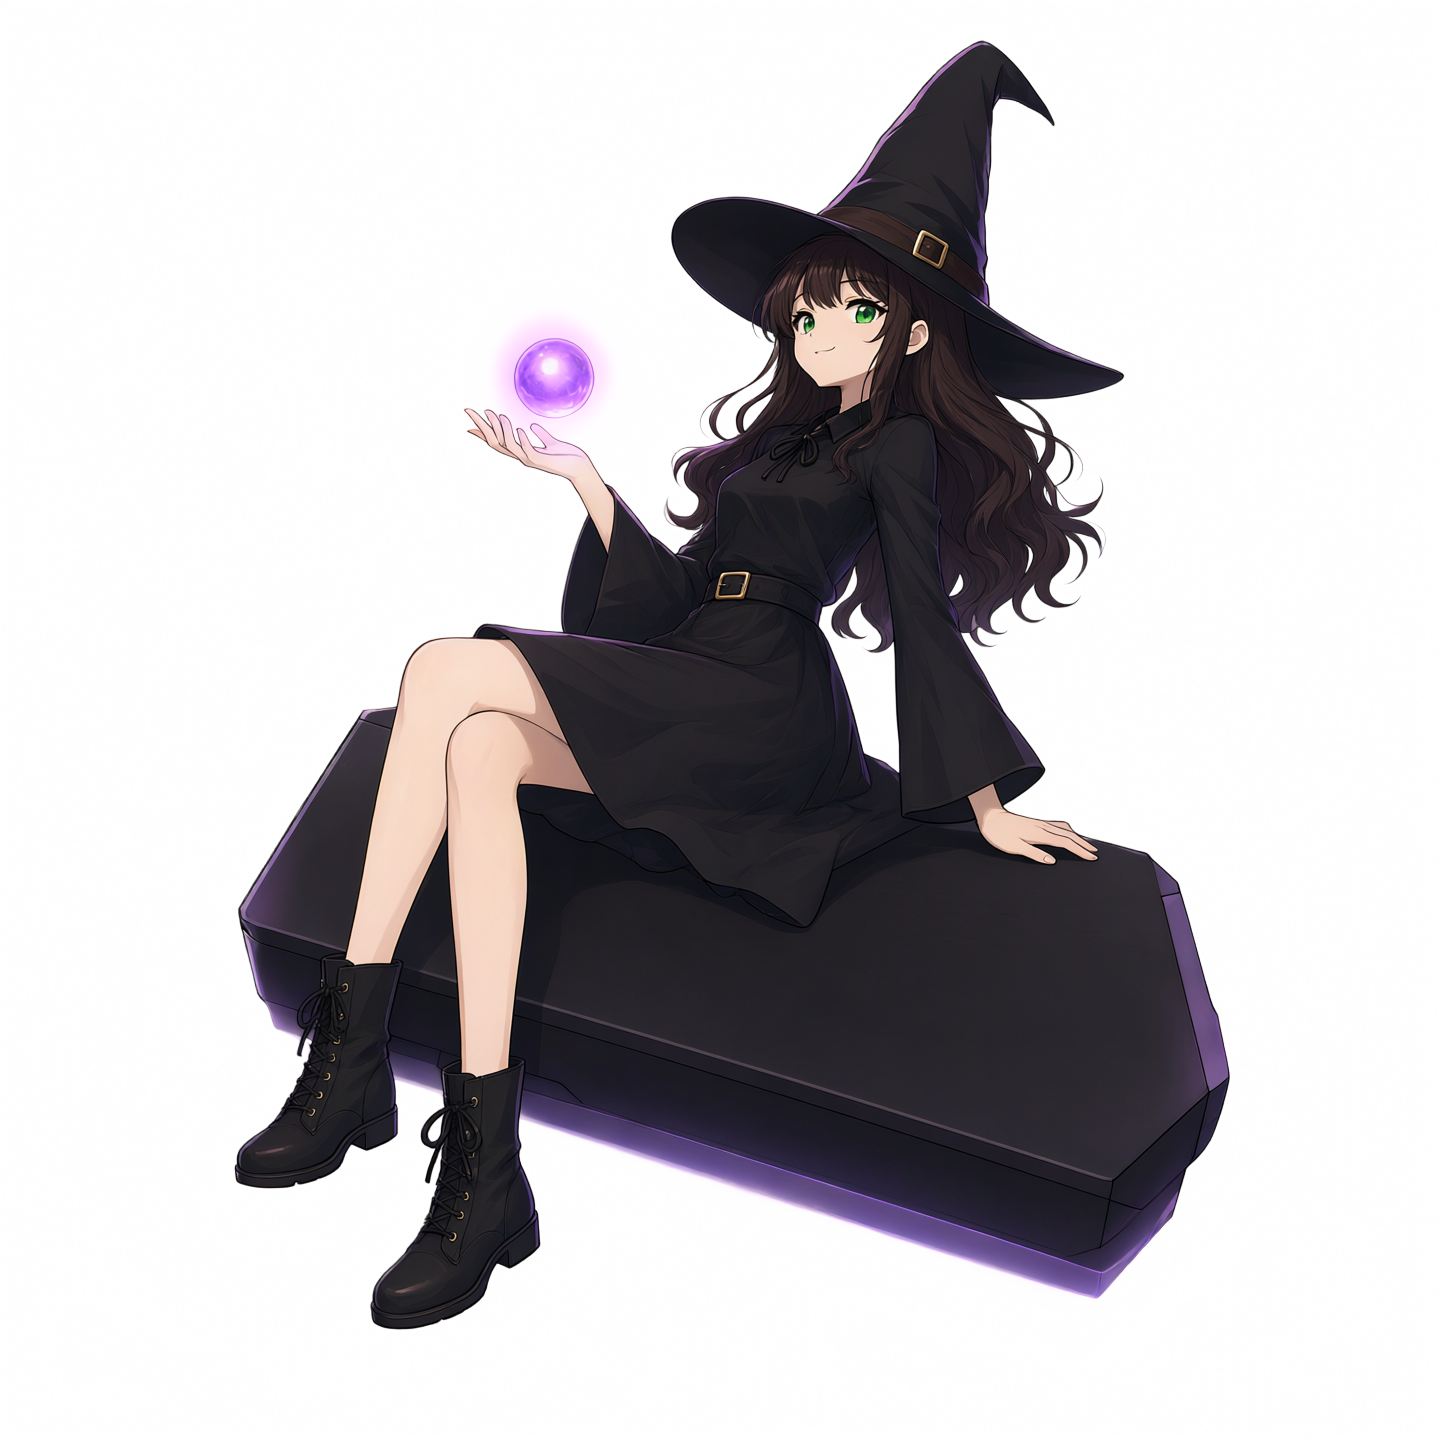
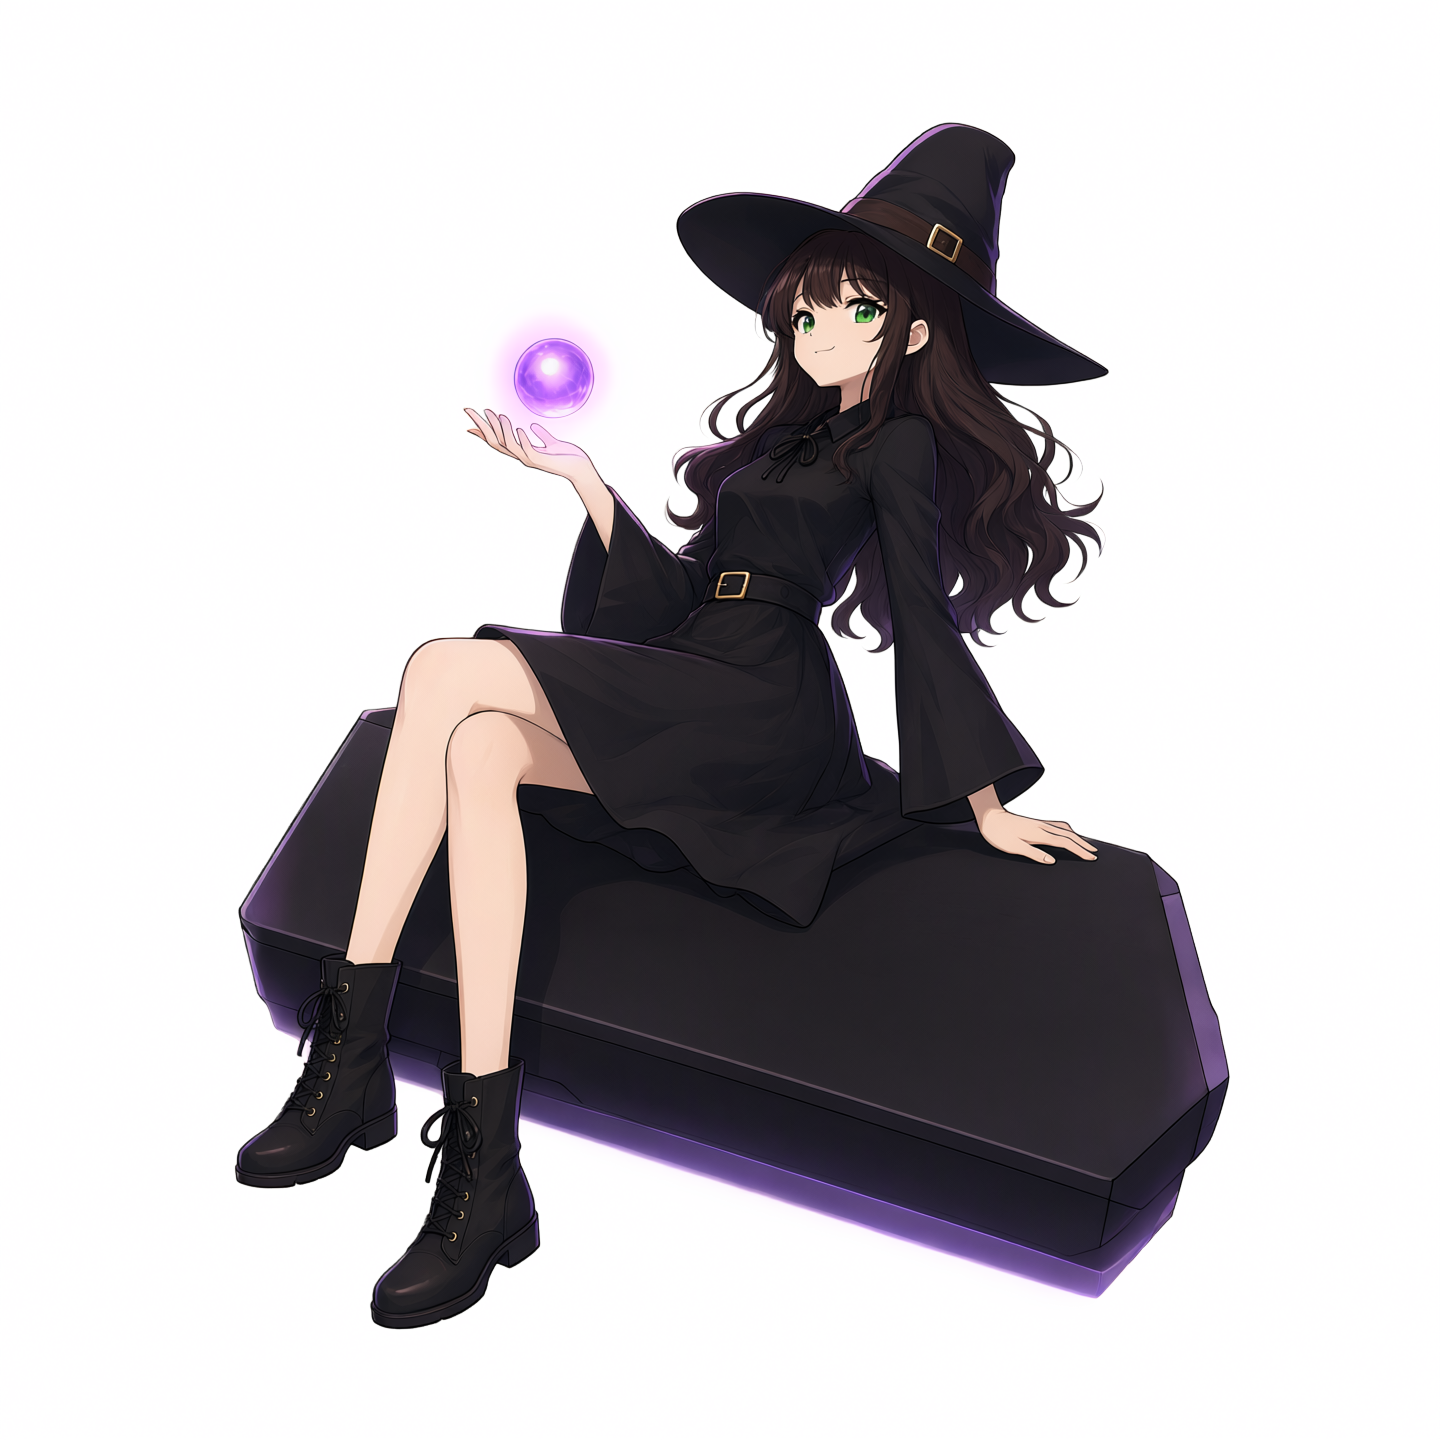
Refine four service shots and crop card art at waist

Changed region(s): [[0.4688, 0.0312, 0.7812, 0.3438], [0.8125, 0.6562, 0.8438, 0.6875], [0.3125, 0.2812, 0.3438, 0.3125]]

diff --git a/assets/style.css b/assets/style.css
@@ -3554,6 +3554,13 @@ a:hover { color: #fff; }
     filter 420ms var(--transition-fast),
     transform 420ms cubic-bezier(0.2, 0.7, 0.2, 1);
 }
+/* Карточки каталога и главной показывают Кики по пояс: нижняя часть
+   прозрачного холста обрезается, поэтому лицо, шляпа и предмет читаются
+   крупнее. На странице услуги тот же файл показывается целиком. */
+.card-art-crop {
+  clip-path: inset(0 0 42% 0);
+}
+
 .card:hover .card-art {
   filter: drop-shadow(0 0 1px rgba(220, 212, 255, 0.55))
     drop-shadow(0 0 22px rgba(139, 127, 245, 0.5));

diff --git a/src/ui/shared.rs b/src/ui/shared.rs
@@ -196,7 +196,7 @@ pub fn ServiceCard(service: Service, #[prop(default = 3)] level: u8) -> impl Int
                     view! {
                         <div class="card-plate">
                             <img
-                                class="card-art"
+                                class="card-art card-art-crop"
                                 src=src
                                 alt=art_alt
                                 width=width
